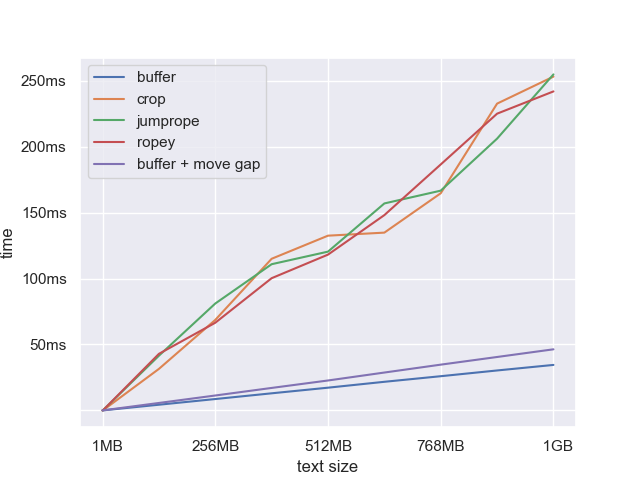
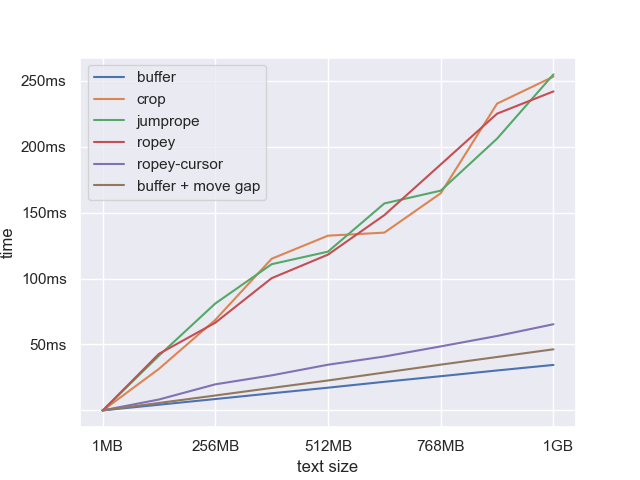
Add notes about regex-cursor to text showdown post

diff --git a/code/make_graphs.py b/code/make_graphs.py
@@ -1,4 +1,4 @@
-#!/usr/bin/env python3
+#!/usr/bin/env python3.11
 import numpy as np
 from warnings import simplefilter
 import matplotlib.pyplot as plt
@@ -378,6 +378,7 @@ def report_search_full():
     crop =     [0, 72.753e3, 31.477e6, 68.626e6, 114.99e6, 132.51e6, 134.82e6, 164.66e6, 232.65e6, 253.14e6]
     jumprope = [0, 138.55e3, 41.465e6, 81.055e6, 110.87e6, 120.40e6, 156.95e6, 166.65e6, 206.09e6, 254.81e6]
     ropey =    [0, 86.966e3, 42.887e6, 66.483e6, 100.26e6, 118.14e6, 148.11e6, 186.52e6, 225.03e6, 241.91e6]
+    ropey_cr = [0, 57.797e3, 8.2573e6, 19.770e6, 26.572e6, 34.645e6, 40.882e6, 48.543e6, 56.437e6, 65.348e6]
     move_gap = [0, 8.2886e3, 1.3293e6, 2.6857e6, 4.0778e6, 5.4573e6, 7.0241e6, 8.7642e6, 10.221e6, 11.841e6]
     distance = [0, 1048576, 134217728, 268435456, 402653184, 536870912, 671088640, 805306368, 939524096, 1073741824]
 
@@ -387,6 +388,7 @@ def report_search_full():
     plt.plot(distance, crop, label='crop')
     plt.plot(distance, jumprope, label='jumprope')
     plt.plot(distance, ropey, label='ropey')
+    plt.plot(distance, ropey_cr, label='ropey-cursor')
 
 
     plt.gca().yaxis.set_major_formatter(formatter_y)
@@ -407,6 +409,7 @@ def report_search_full():
     plt.plot(distance, crop, label='crop')
     plt.plot(distance, jumprope, label='jumprope')
     plt.plot(distance, ropey, label='ropey')
+    plt.plot(distance, ropey_cr, label='ropey-cursor')
     # add move_gap to buffer and plot the result
     buffer = np.array(buffer) + np.array(move_gap)
     plt.plot(distance, buffer, label='buffer + move gap')
@@ -419,7 +422,7 @@ def report_search_full():
 
 
 
-report_overhead()
+# report_overhead()
 # report_edit_overhead()
 # report_move_gap()
 # report_resize()

diff --git a/content/post/text-showdown-gap-buffers-vs-ropes.md b/content/post/text-showdown-gap-buffers-vs-ropes.md
@@ -141,6 +141,8 @@ However, there is nothing special about multiple cursors with this relationship.
 
 People don't only edit text, they also analyze it. One of the most common ways to do this is via searching. Rust has a highly optimized regex crate, but it only operates on slices. This is [problematic](https://github.com/xi-editor/xi-editor/issues/1192) for [ropes](https://github.com/helix-editor/helix/pull/211) since they store the buffer in many small allocations. Currently, the best way to do a regex search over a rope is to copy all the chunks out into a separate allocation and perform your search over that[^fn:3]. There is [some work](https://github.com/pascalkuthe/ropey_regex) to create a [streaming API version](https://github.com/rust-lang/regex/issues/425) of regex based on `regex-automata`, but it still has not been developed and may never prove to be as fast as slice searching.
 
+> EDIT 4/1/2024: The [regex-cursor crate](https://crates.io/crates/regex-cursor) (an implementation of regex streaming) is finished and is being [used in Helix](https://github.com/helix-editor/helix/pull/9422). Overall the performance is quite good, but there [are some areas](https://github.com/rust-lang/regex/issues/425#issuecomment-1914015776) where it is an order of magnitude slower than `Regex`. However these will improve over time. I have added the `ropey-cursor` benchmark to the plots below. It is within a factor of 2 of the gap buffer, which is huge improvement! But note that this is best case scenario for `ropey-cursor` since the regex used can be converted into a simple substring search (no-backtracking) and the rope is in ideal state (there have been no edits).
+
 Given that, I wanted to test out how the different containers do when performing a full-text search. We would expect the gap buffer to have a significant advantage here because it is already in slice format.
 
 {{< figure src="/images/search.png" >}}
